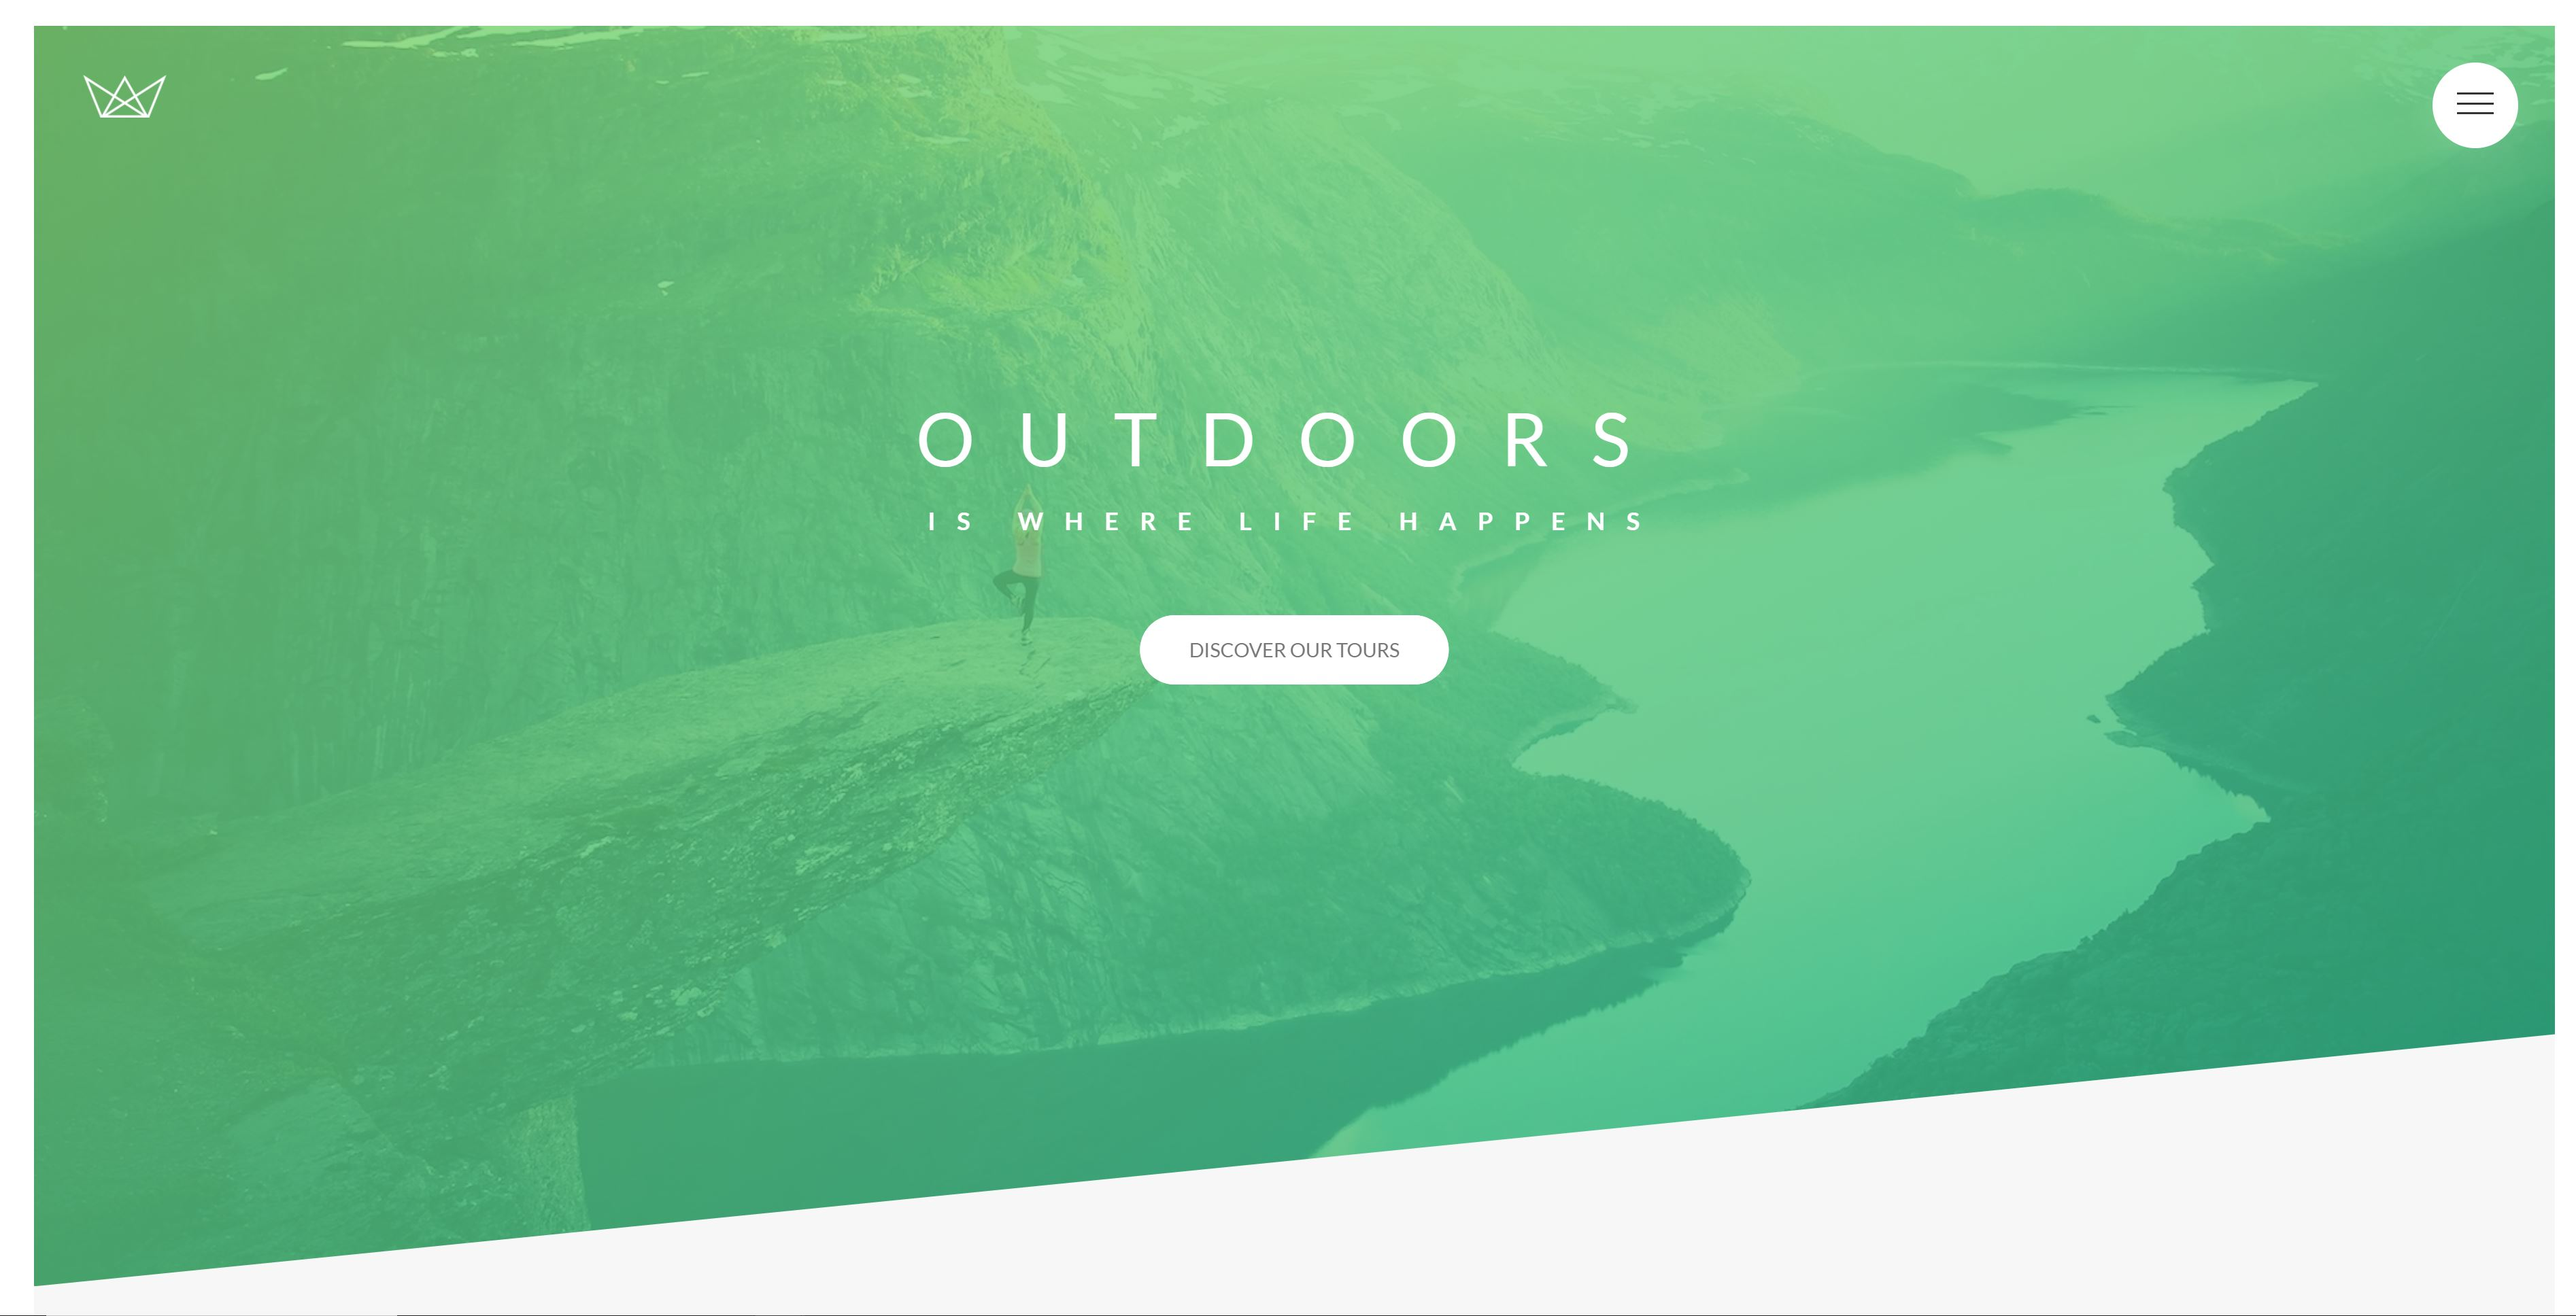
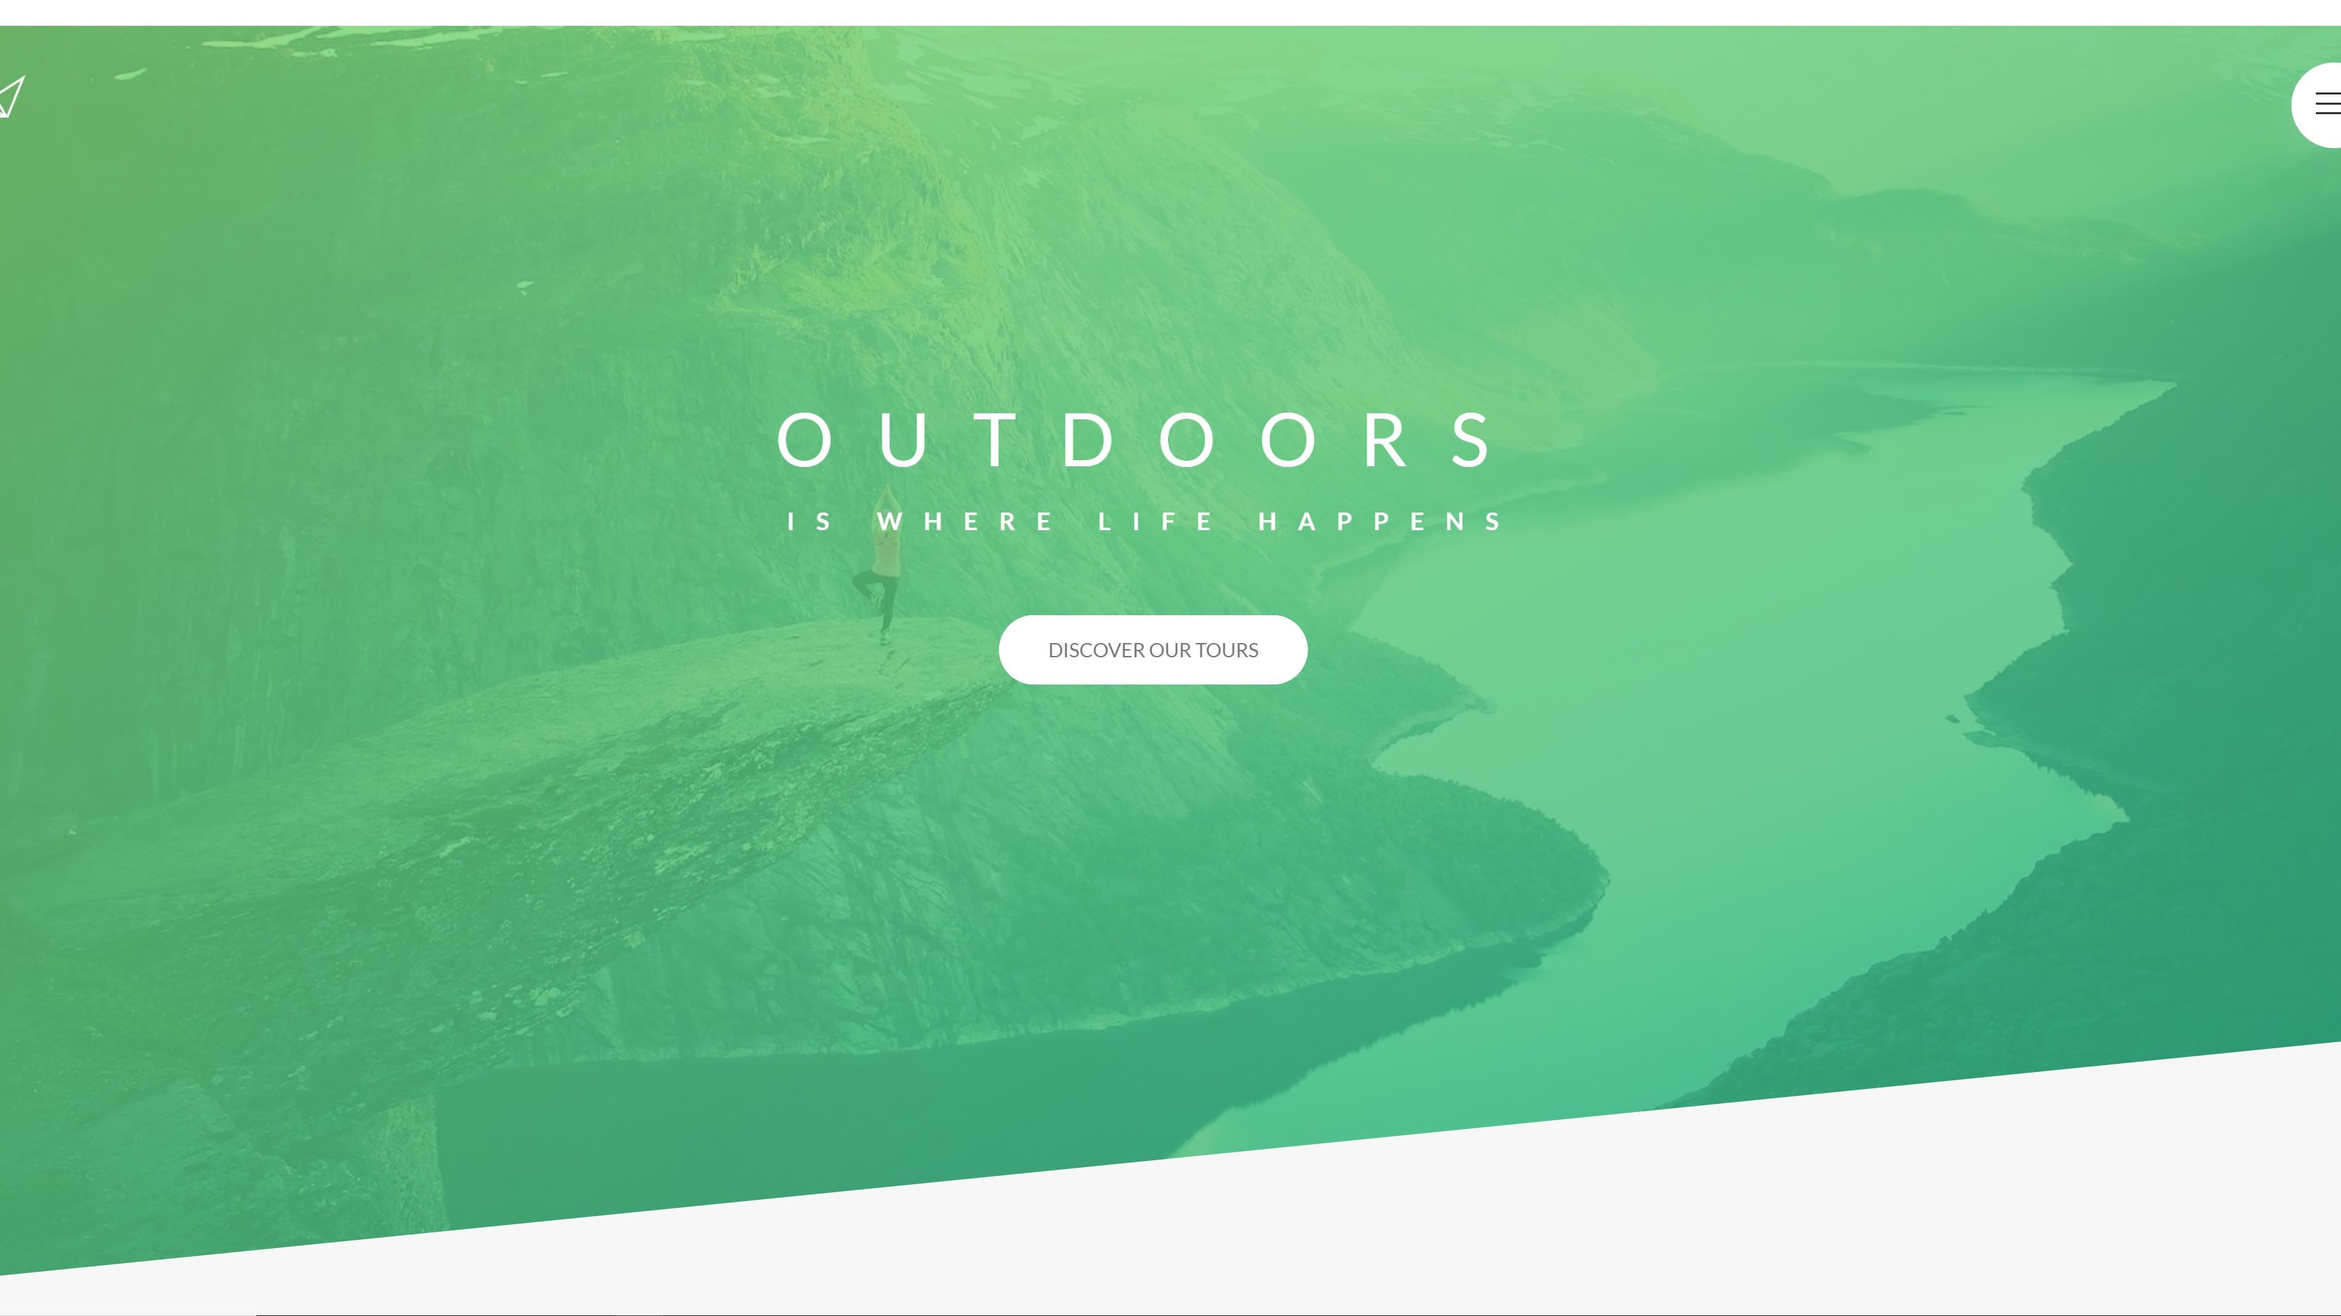
fixing spacing on phone. make jpgs actually show up

diff --git a/src/pages/PortfolioPage.jsx b/src/pages/PortfolioPage.jsx
@@ -4,7 +4,16 @@ export function Portfolio() {
   return (
     <div className="portfolio margin-top-med margin-bottom-large">
       <PortfolioCard
+        heading="Culture Guide - Global Classroom collaboration with Indiana University"
+        description="A group collaboration with 3 other students. One at Haaga-Helia, and 2 from IUPUI. The objective was to create a responsive website which followed the theme of 'Culture'. Made with HTML, CSS, JavaScript with Grunt as a taskrunner and Dreamweaver for uniformity."
+        url="https://iupui-hh.github.io/globalclassroom/group1/"
+        portfolioImg="./portfolio-imgs/culture_guide.jpg"
+        alt="Screenshot of front page of website"
+      />
+
+      <PortfolioCard
         heading="Natours - Advanced CSS course"
+        description="Mock-up site created during Jonas Schmedmann's 'Advanced CSS' course on Udemy. This site used float and a custom grid, and was the introduction to animations and SCSS. Made with HTML and SCSS."
         url="https://shanschrauwen.github.io/Natours_Jonas_Course/"
         portfolioImg="./portfolio-imgs/natours_site.jpg"
         alt="Screenshot of front page of website"
@@ -12,6 +21,7 @@ export function Portfolio() {
 
       <PortfolioCard
         heading="Trillo Site - Advanced CSS course"
+        description="Mock-up site created during Jonas Schmedmann;s 'Advanced CSS' course on Udemy. This site was done to show how to use flexbox, as well as animations and to get better with SASS/SCSS. Made with HTML and SCSS."
         url="https://shanschrauwen.github.io/starter-Trillo-Jonas/"
         portfolioImg="./portfolio-imgs/trillo_site.jpg"
         alt="Screenshot of front page of website"
@@ -19,6 +29,7 @@ export function Portfolio() {
 
       <PortfolioCard
         heading="Blog site - Web Development Bootcamp"
+        description="Blog site created during Angela Yu's Web Developer Bootcamp on Udemy. Uses mongoose, ejs, Node.js and connects to MongoDB backend. "
         url="https://udemy-course-blogsite.herokuapp.com/"
         portfolioImg="./portfolio-imgs/blog_site.jpg"
         alt="Screenshot of front page of website"
@@ -26,6 +37,7 @@ export function Portfolio() {
 
       <PortfolioCard
         heading="To Do list site - Web Development Bootcamp"
+        description="Interactive To Do list created during Angela Yu's Web Developer Bootcamp on Udemy. Uses ejs and Node.js."
         url="https://udemy-course-todolist.herokuapp.com/"
         portfolioImg="./portfolio-imgs/todo_list_site.jpg"
         alt="Screenshot of front page of website"
@@ -33,6 +45,7 @@ export function Portfolio() {
 
       <PortfolioCard
         heading="Simon Says - Web Development Bootcamp"
+        description="Interactive game created during Angela Yu's Web Developer Bootcamp. Click Start to begin the game, and the JavaScript program creates a sequence of colors that you need to follow. Uses Node.js."
         url="https://shanschrauwen.github.io/Simon-Says-Challenge/"
         portfolioImg="./portfolio-imgs/simon_says_site.jpg"
         alt="Screenshot of front page of website"
@@ -40,6 +53,7 @@ export function Portfolio() {
 
       <PortfolioCard
         heading="Drum Kit - Web Development Bootcamp"
+        description="Interactive sound playing site created during Angela Yu's Web Developer Bootcamp. Click the drum kits to play different sounds. Also works if you use the keyboard. Uses Node.js."
         url="https://shanschrauwen.github.io/Drum-Kit/"
         portfolioImg="./portfolio-imgs/drum_kit_site.jpg"
         alt="Screenshot of front page of website"
@@ -47,6 +61,7 @@ export function Portfolio() {
 
       <PortfolioCard
         heading="Newsletter sign-up - Web Development Bootcamp"
+        description="Newsletter signup site created during Angela Yu's Web Developer Bootcamp. Stores the email address and contact information that has been input. Uses Node.js."
         url="https://udemy-course-email-signup.herokuapp.com/"
         portfolioImg="./portfolio-imgs/newletter_signup_site.jpg"
         alt="Screenshot of front page of website"
@@ -54,6 +69,7 @@ export function Portfolio() {
 
       <PortfolioCard
         heading="Dice Challenge site - Web Development Bootcamp"
+        description="Interactive game created during Angela Yu's Web Developer Bootcamp. Click Start to begin the game, and a simple program says if player 1 or player 2 has a greater di cast. Uses Node.js."
         url="https://shanschrauwen.github.io/Dice-Challenge/"
         portfolioImg="./portfolio-imgs/dice_site.jpg"
         alt="Screenshot of front page of website"

diff --git a/src/scss/components/_portfolio-card.scss b/src/scss/components/_portfolio-card.scss
@@ -33,7 +33,10 @@
 
   &__heading {
     z-index: 500;
-    padding-bottom: 0.5rem;
+    padding: 0.2rem;
+    background-color: $color-cream;
+    border: 2px solid $color-cream;
+    border-radius: 8px;
   }
 
   &__description {
@@ -46,18 +49,13 @@
   }
 
   &__link {
-    text-align: center;
-
- 
-
-
-   
+   display: flex;
   }
 
   &__img {
     width: 45%;
-       z-index: 100;
-    transform: scale(1);
+    z-index: 100;
+    transform: scale(2) translate(30%,25%);
     transition: all 0.5s ease-in;
   }
 
@@ -65,25 +63,30 @@
     position: absolute;
     top: 50%;
     bottom: 50%;
-    transform: translate(-50%, 50%);
+    transform: translate(20%, 0);
     opacity: 0;
     transition: all 0.5s;
-    backface-visibility: hidden;
+    margin-bottom: 1rem;
+
   }
 
-  &:hover{
-    @include my-box-shadow(0 1rem 2rem, 0.2)
+  &:hover {
+    @include my-box-shadow(0 1rem 2rem, 0.2);
   }
 
   &:hover &__caption {
     opacity: 1;
-    transform: translate(50%, 80%);
+    transform: translate(20%, 100%);
+    text-shadow: 1px 1px 5px rgba($color: $color-cream, $alpha: 1);
+    width: 75%;
+    margin-bottom: 1rem;
   }
 
   &:hover &__img {
     -webkit-backface-visibility: hidden;
     backface-visibility: hidden;
-    transform: scale(1.5);
+    transform: scale(2.5) translate(30%, 25%);
     filter: blur(3px) brightness(80%);
+    opacity: 0.5;
   }
 }

diff --git a/src/pages/HomePage.jsx b/src/pages/HomePage.jsx
@@ -27,7 +27,7 @@ export function Home() {
           </p>
 
           <div className="home__shape row1__right">
-            <img src="./home-imgs/placeholder.jpg" alt="placeholder" className="home--box__img" />
+            <img src="./home-imgs/cape_town.jpg" alt="Cape Town" className="home--box__img" />
           </div>
 
           <p className="home--bio__para row2__right">
@@ -40,7 +40,7 @@ export function Home() {
             thought I would.
           </p>
           <div className="home__shape row2__left">
-            <img src="./home-imgs/placeholder.jpg" alt="placeholder" className="home--box__img " />
+            <img src="./home-imgs/helsinki.jpg" alt="Helsinki" className="home--box__img" />
           </div>
 
           <p className="home--bio__para row3__left">
@@ -50,7 +50,7 @@ export function Home() {
             a focus on software engineering and design.
           </p>
           <div className="home__shape row3__right">
-            <img src="./home-imgs/placeholder.jpg" alt="placeholder" className="home--box__img " />
+            <img src="./home-imgs/shannon.jpg" alt="Shannon Schrauwen" className="home--box__img" />
           </div>
         </div>
       </section>

diff --git a/src/components/PortfolioCard.jsx b/src/components/PortfolioCard.jsx
@@ -3,9 +3,7 @@ export function PortfolioCard(props) {
     <div className="portfolio-card">
       <h4 className="portfolio-card__heading">{props.heading}</h4>
 
-      <p className="portfolio-card__description">
-        This is the description of the website.
-      </p>
+      <p className="portfolio-card__description">{props.description}</p>
 
       <a
         href={props.url}
@@ -19,11 +17,10 @@ export function PortfolioCard(props) {
             alt={props.alt}
             className="portfolio-card__img"
           />
-
-          <figcaption className="portfolio-card__caption">
-            This is the description of the website
-          </figcaption>
         </figure>
+        <figcaption className="portfolio-card__caption">
+          {props.description}
+        </figcaption>
       </a>
     </div>
   );

diff --git a/src/components/Footer.jsx b/src/components/Footer.jsx
@@ -37,9 +37,16 @@ export function Footer() {
         <div className="footer--main__info">
           Created by Shannon Schrauwen in React and SCSS.
           <span>&copy; 2021</span>
+          <span>Images from Unsplash</span>
           <div className="footer--icons">
-            <FontAwesomeIcon icon={["fab", "react"]} className="footer--icons__icon"/>
-            <FontAwesomeIcon icon={["fab", "sass"]} className="footer--icons__icon"/>
+            <FontAwesomeIcon
+              icon={["fab", "react"]}
+              className="footer--icons__icon"
+            />
+            <FontAwesomeIcon
+              icon={["fab", "sass"]}
+              className="footer--icons__icon"
+            />
           </div>
         </div>
       </footer>

diff --git a/src/scss/layout/_grid.scss b/src/scss/layout/_grid.scss
@@ -83,7 +83,7 @@
         "row3-left . row3-right";
     }
 
-    @include respond(phone){
+    @include respond(phone) {
       display: flex;
       flex-direction: column;
     }
@@ -106,6 +106,10 @@
 
     @include respond(tablet-land) {
       grid-template-columns: 5% 30% 30% 30% 5%;
+    }
+
+    @include respond(phone) {
+      grid-template-columns: 2% 32% 32% 32% 2%;
     }
   }
 }

diff --git a/src/scss/pages/_home.scss b/src/scss/pages/_home.scss
@@ -46,6 +46,8 @@
   &__shape img {
     @include round-img;
 
+    
+
     @include respond(phone){
       align-self: center;
     }
@@ -55,6 +57,7 @@
     &__item {
       width: $img-size-small;
       text-align: center;
+
     }
   }
 
@@ -85,3 +88,4 @@
     }
   }
 }
+

diff --git a/src/scss/abstracts/_mixins.scss b/src/scss/abstracts/_mixins.scss
@@ -47,7 +47,7 @@
 @mixin round-img {
   width: auto;
   height: 100%;
-  transform: scale(1.4);
+  transform: scale(1) translateX(-12%);
   transition: all 0.5s ease-in;
 }
 

diff --git a/src/main.scss b/src/main.scss
@@ -18,6 +18,7 @@
 @import "scss/layout/svg";
 
 
+
 @import "scss/pages/contact";
 @import "scss/pages/home";
 @import "scss/pages/portfolio";
